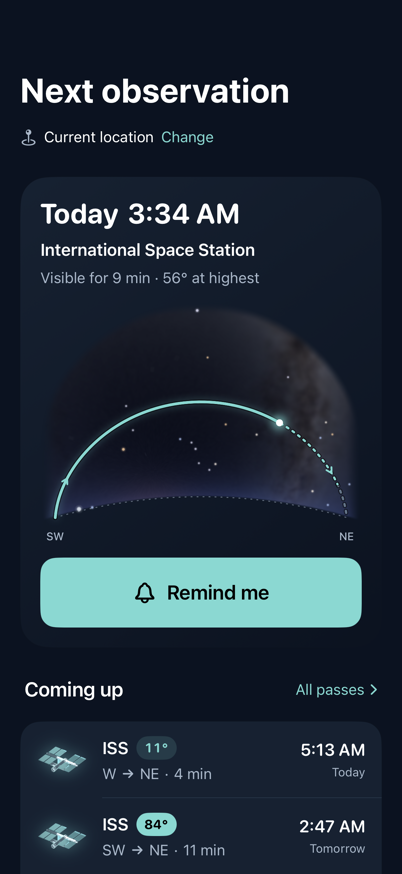
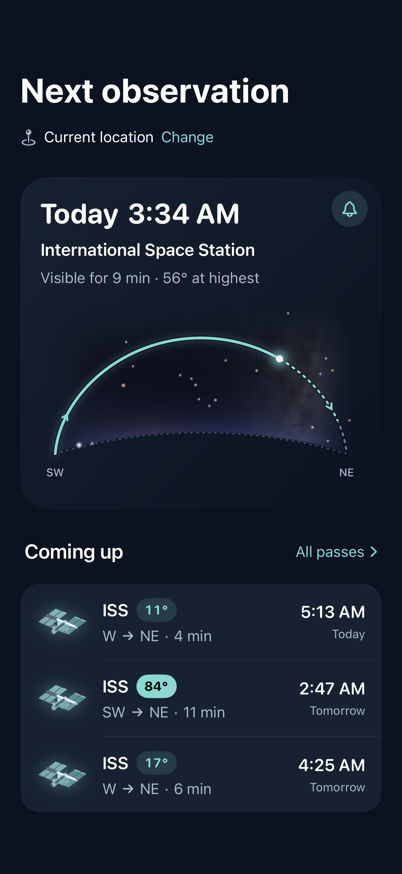
Fade edge stars, round the Moon halo, and tighten widget domes
Home preview stars now dissolve with the same edge fade as the sky raster, and
the Moon's bloom is faded inside its tile so no rectangular boundary shows.

The widget dome fills the available width, fits the arc between the peak
label and the compass labels, and centres that band, so the horizon sits just
above the direction text. Medium rows now use the same dome without the sky
background.

diff --git a/Frameworks/SatelliteForecast/WidgetSupport/StationWidgetView.swift b/Frameworks/SatelliteForecast/WidgetSupport/StationWidgetView.swift
@@ -81,9 +81,15 @@ public struct StationWidgetView: View {
             }
             .frame(maxWidth: .infinity, alignment: .leading)
             if !small, !spaciousText, let pass {
-                PassArc(pass: pass, accent: accent, muted: muted)
-                    .frame(width: 84, height: 48)
-                    .accessibilityLabel("\(Int(pass.elevation.rounded())) degrees maximum, \(text(pass.startDirection)) to \(text(pass.endDirection))")
+                Group {
+                    if let dome = pass.dome {
+                        DomeChart(pass: pass, dome: dome, accent: accent, muted: muted, showsBackground: false)
+                    } else {
+                        PassArc(pass: pass, accent: accent, muted: muted)
+                    }
+                }
+                .frame(width: 96, height: 52)
+                .accessibilityLabel("\(Int(pass.elevation.rounded())) degrees maximum, \(text(pass.startDirection)) to \(text(pass.endDirection))")
             }
         }
         .frame(maxHeight: .infinity, alignment: .center)
@@ -99,7 +105,7 @@ public struct StationWidgetView: View {
         }
         if let pass {
             if let dome = pass.dome {
-                DomeChart(pass: pass, dome: dome, accent: accent, muted: muted)
+                DomeChart(pass: pass, dome: dome, accent: accent, muted: muted, labelSize: 10)
                     .frame(maxWidth: .infinity, maxHeight: .infinity)
                     .padding(.horizontal, -6)
                     .accessibilityLabel("Sky preview, maximum \(Int(pass.elevation.rounded())) degrees, \(text(pass.startDirection)) to \(text(pass.endDirection))")
@@ -237,31 +243,43 @@ private struct PassArc: View {
 
 
 /// The home screen's rise-to-set dome: the app-rendered sky with the projected track,
-/// dotted horizon, peak elevation and compass labels, scaled to the widget.
+/// dotted horizon, peak elevation and compass labels, scaled to the widget. The dome is
+/// fitted so the horizon sits just above the compass labels and the arc fills the width.
 private struct DomeChart: View {
     @Environment(\.locale) private var locale
     let pass: WidgetPass
     let dome: WidgetDome
     let accent: Color
     let muted: Color
+    var showsBackground = true
+    var labelSize: CGFloat = 9
 
     var body: some View {
         GeometryReader { proxy in
-            let labelHeight: CGFloat = 12
-            let available = CGSize(width: proxy.size.width, height: max(1, proxy.size.height - labelHeight))
-            let scale = min(available.width / dome.width, available.height / dome.height)
-            let rect = CGRect(x: (available.width - dome.width * scale) / 2, y: (available.height - dome.height * scale) / 2,
+            let labelHeight = labelSize + 4
+            let track = dome.track
+            let peakY = track.map(\.y).min() ?? 0.2
+            let horizonY = max(track.first?.y ?? 0.8, track.last?.y ?? 0.8)
+            let peakLabelRoom: CGFloat = 16
+            let usableHeight = max(1, proxy.size.height - labelHeight - peakLabelRoom - 2)
+            let span = max(0.05, horizonY - peakY) * dome.height
+            let scale = min(proxy.size.width / dome.width, usableHeight / span)
+            // Centre the used band (peak label, arc, compass labels) vertically.
+            let used = peakLabelRoom + span * scale + labelHeight + 2
+            let top = max(0, (proxy.size.height - used) / 2)
+            let rect = CGRect(x: (proxy.size.width - dome.width * scale) / 2,
+                              y: top + peakLabelRoom - peakY * dome.height * scale,
                               width: dome.width * scale, height: dome.height * scale)
             let point: (WidgetDomePoint) -> CGPoint = { p in CGPoint(x: rect.minX + p.x * rect.width, y: rect.minY + p.y * rect.height) }
+            let horizonLine = rect.minY + horizonY * rect.height
             ZStack(alignment: .topLeading) {
-                if let data = dome.imagePNG, let image = UIImage(data: data) {
+                if showsBackground, let data = dome.imagePNG, let image = UIImage(data: data) {
                     Image(uiImage: image).resizable().frame(width: rect.width, height: rect.height).offset(x: rect.minX, y: rect.minY)
                 }
                 Canvas { context, _ in
                     var horizon = Path()
                     for (i, p) in dome.horizon.enumerated() { i == 0 ? horizon.move(to: point(p)) : horizon.addLine(to: point(p)) }
                     context.stroke(horizon, with: .color(muted.opacity(0.6)), style: StrokeStyle(lineWidth: 1, lineCap: .round, dash: [1, 4]))
-                    let track = dome.track
                     for lit in [false, true] {
                         var path = Path()
                         var connected = false
@@ -272,30 +290,35 @@ private struct DomeChart: View {
                             connected = true
                         }
                         let style = StrokeStyle(lineWidth: lit ? 2.4 : 2, lineCap: .round, lineJoin: .round, dash: lit ? [] : [2, 4])
-                        context.stroke(path, with: .color(.black.opacity(0.5)), style: StrokeStyle(lineWidth: style.lineWidth + 2, lineCap: .round, lineJoin: .round, dash: style.dash))
+                        if showsBackground {
+                            context.stroke(path, with: .color(.black.opacity(0.5)), style: StrokeStyle(lineWidth: style.lineWidth + 2, lineCap: .round, lineJoin: .round, dash: style.dash))
+                        }
                         context.stroke(path, with: .color(lit ? accent : muted.opacity(0.85)), style: style)
                     }
                     if let peak = track.min(by: { $0.y < $1.y }) {
                         let p = point(peak)
                         context.fill(Path(ellipseIn: CGRect(x: p.x - 2.5, y: p.y - 2.5, width: 5, height: 5)), with: .color(peak.illuminated ? accent : muted))
                         let label = context.resolve(Text("\(Int(pass.elevation.rounded()))°")
-                            .font(.system(size: 10, weight: .semibold, design: .rounded)).foregroundStyle(accent))
+                            .font(.system(size: labelSize + 1, weight: .semibold, design: .rounded)).foregroundStyle(accent))
                         let size = label.measure(in: CGSize(width: 60, height: 20))
-                        let anchor = CGPoint(x: min(rect.maxX - size.width / 2, max(rect.minX + size.width / 2, p.x)), y: max(rect.minY + size.height / 2, p.y - 10))
-                        context.fill(Path(roundedRect: CGRect(x: anchor.x - size.width / 2 - 3, y: anchor.y - size.height / 2 - 1, width: size.width + 6, height: size.height + 2), cornerRadius: 4),
-                                     with: .color(.black.opacity(0.45)))
+                        let anchor = CGPoint(x: min(proxy.size.width - size.width / 2, max(size.width / 2, p.x)), y: max(size.height / 2, p.y - 9))
+                        if showsBackground {
+                            context.fill(Path(roundedRect: CGRect(x: anchor.x - size.width / 2 - 3, y: anchor.y - size.height / 2 - 1, width: size.width + 6, height: size.height + 2), cornerRadius: 4),
+                                         with: .color(.black.opacity(0.45)))
+                        }
                         context.draw(label, at: anchor)
                     }
-                    let labelY = rect.maxY + labelHeight / 2
+                    let labelY = min(proxy.size.height - labelHeight / 2, horizonLine + labelHeight / 2 + 2)
                     if let first = track.first, let last = track.last {
-                        let font = Font.system(size: 9, weight: .medium, design: .rounded)
+                        let font = Font.system(size: labelSize, weight: .medium, design: .rounded)
                         context.draw(Text(WidgetStrings.text(pass.startDirection, locale: locale)).font(font).foregroundStyle(muted),
-                                     at: CGPoint(x: min(rect.maxX - 8, max(rect.minX + 8, point(first).x)), y: labelY))
+                                     at: CGPoint(x: min(proxy.size.width - 8, max(8, point(first).x)), y: labelY))
                         context.draw(Text(WidgetStrings.text(pass.endDirection, locale: locale)).font(font).foregroundStyle(muted),
-                                     at: CGPoint(x: min(rect.maxX - 8, max(rect.minX + 8, point(last).x)), y: labelY))
+                                     at: CGPoint(x: min(proxy.size.width - 8, max(8, point(last).x)), y: labelY))
                     }
                 }
             }
+            .clipped()
         }
     }
 }

diff --git a/Frameworks/SatelliteForecast/Impl/Sources/Views/SatelliteOverview/ObservationSkyPreview.swift b/Frameworks/SatelliteForecast/Impl/Sources/Views/SatelliteOverview/ObservationSkyPreview.swift
@@ -39,9 +39,13 @@ struct ObservationSkyPreview: View {
                             let coordinate = azel(time: Date(julianDate: pass.culmination.julianDate),
                                 site: LatLon(observer), cele: RADec(star.coordinate))
                             guard let point = projection.visiblePoint(azimuth: coordinate.azim, elevation: coordinate.elev) else { continue }
+                            // Stars dissolve at the frame edges together with the sky behind them.
+                            let fade = projection.edgeFade(at: point)
+                            guard fade > 0.02 else { continue }
                             SkyChartTheme.drawPointSource(in: cg, at: point,
                                 radius: BackgroundSkyConfigs.StarMagToDisplayRadiusMappingFunction.default.apply(star.magnitude),
-                                color: SkyChartTheme.starColor(spectralClass: star.spectralClass, traitCollection: traits),
+                                color: SkyChartTheme.starColor(spectralClass: star.spectralClass, traitCollection: traits)
+                                    .withAlphaComponent(fade),
                                 magnitude: star.magnitude)
                         }
                     }
@@ -204,6 +208,16 @@ struct ObservationSkyProjection: Hashable, Sendable {
         let denominator = max(0.0001, 1 + depth * cos(pitch) + z * sin(pitch))
         return SIMD2((h.x * right.x + h.y * right.y) / denominator,
                      (z * cos(pitch) - depth * sin(pitch)) / denominator)
+    }
+
+    /// The same dissolve the background raster uses at the frame edges (see
+    /// `ChartRenderer.observationSky`), so foreground points fade in step with the sky.
+    func edgeFade(at point: CGPoint) -> Double {
+        func smooth(_ low: Double, _ high: Double, _ value: Double) -> Double {
+            let t = min(1, max(0, (value - low) / (high - low)))
+            return t * t * (3 - 2 * t)
+        }
+        return smooth(0, 64, min(point.x, width - point.x)) * smooth(0, 84, point.y) * smooth(0, 22, height - point.y)
     }
 
     func point(azimuth: Double, elevation: Double) -> CGPoint {

diff --git a/Frameworks/SatelliteForecast/Impl/Sources/Views/BackgroundSkyView/MoonAppearance.swift b/Frameworks/SatelliteForecast/Impl/Sources/Views/BackgroundSkyView/MoonAppearance.swift
@@ -173,6 +173,18 @@ enum MoonAppearance {
                     parameters: [kCIInputBackgroundImageKey: composite])
             }
         }
+        // The widest wing still carries energy at the square extent's edges. Fade the
+        // halo to nothing inside the inscribed circle so it never shows a tile boundary.
+        let falloff = CIFilter(name: "CIRadialGradient", parameters: [
+            "inputCenter": CIVector(x: extent.midX, y: extent.midY),
+            "inputRadius0": Double(dimension) * 0.75,
+            "inputRadius1": Double(dimension) * 1.45,
+            "inputColor0": CIColor(red: 1, green: 1, blue: 1, alpha: 1),
+            "inputColor1": CIColor(red: 1, green: 1, blue: 1, alpha: 0)
+        ])?.outputImage?.cropped(to: extent)
+        if let falloff {
+            composite = composite.applyingFilter("CISourceInCompositing", parameters: [kCIInputBackgroundImageKey: falloff])
+        }
         guard let cg = bloomContext.createCGImage(composite, from: extent) else { return base }
         let halo = UIImage(cgImage: cg)
         let near = input.applyingFilter("CIGaussianBlur", parameters: [kCIInputRadiusKey: Double(dimension) * 0.045])

diff --git a/SatelliteForecastTests/ScreenSnapshotTests.swift b/SatelliteForecastTests/ScreenSnapshotTests.swift
@@ -48,7 +48,12 @@ final class ScreenSnapshotTests: XCTestCase {
                 peak: Date(julianDate: pass.culmination.julianDate), set: Date(julianDate: pass.set.julianDate),
                 elevation: pass.culmination.elev, startDirection: "SW", endDirection: "NE", skyTrack: track,
                 skyBackground: skies[pass.rise.julianDate], events: ForecastModel.widgetEvents(pass), dome: dome),
-            WidgetForecast.preview(at: now).passes[1]
+            {
+                let preview = WidgetForecast.preview(at: now).passes[1]
+                return WidgetPass(station: preview.station, rise: preview.rise, peak: preview.peak, set: preview.set,
+                    elevation: preview.elevation, startDirection: preview.startDirection, endDirection: preview.endDirection,
+                    skyTrack: preview.skyTrack, dome: dome)
+            }()
         ])
         let cases: [(String, WidgetFamily, CGSize, Bool, Int, WidgetForecast?)] = [
             ("small-stations", .systemSmall, .init(width: 170, height: 170), false, 25544, forecast),
